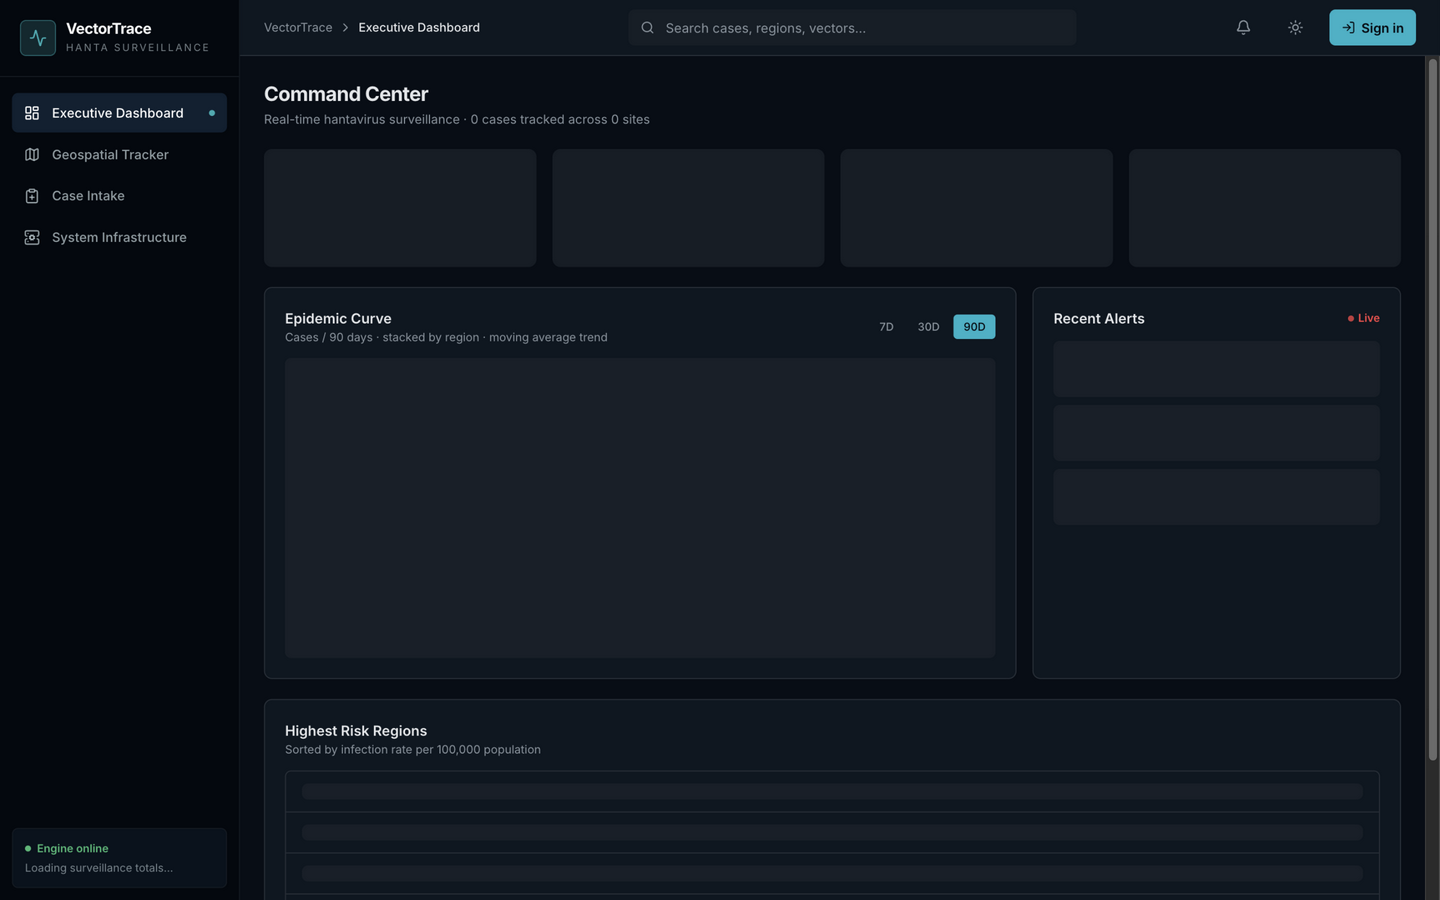
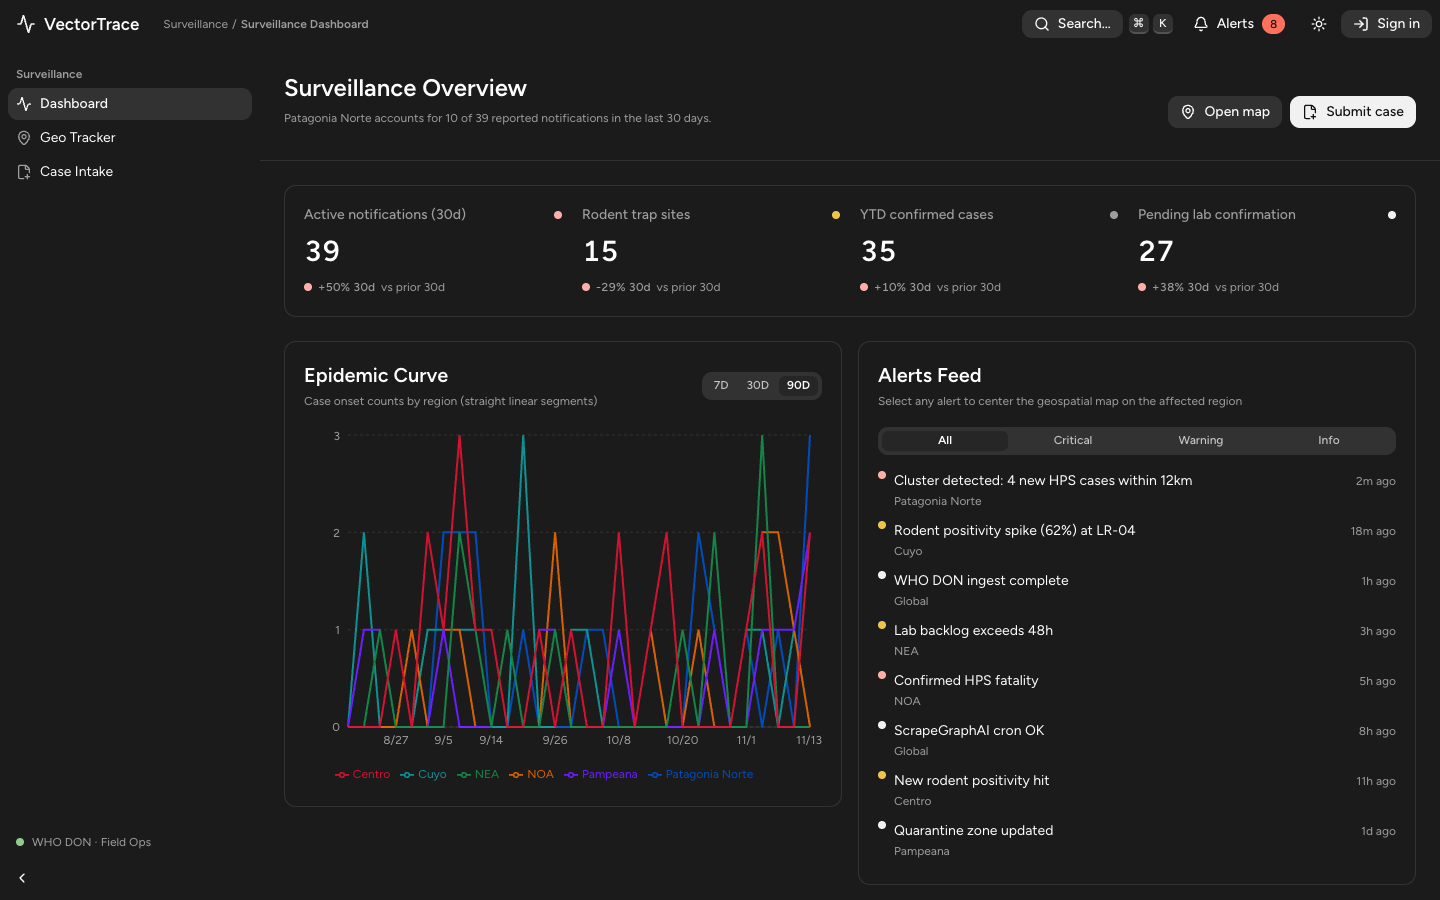
docs(readme): update overview and add light/dark UI screenshots

diff --git a/README.md b/README.md
@@ -7,26 +7,33 @@
 
 [![Live Demo](https://img.shields.io/badge/live-demo-ff5722?logo=cloudflareworkers&logoColor=white)](https://vectortrace-hantavirus-surveillance.sujayanimneth.workers.dev)
 
-**VectorTrace** is a real-time epidemiological surveillance platform for hantavirus. It combines a command-center dashboard, geospatial risk mapping, a role-gated rapid case intake workflow, and an automated WHO Disease Outbreak News ingestion pipeline — backed by Supabase (Postgres + RLS + Edge Functions) and deployed to Cloudflare Workers.
+**VectorTrace** is a real-time epidemiological surveillance platform for hantavirus. It pairs a public overview with an operational surveillance workspace — analytics dashboard, geospatial risk map, 4-step rapid case intake, and an automated WHO Disease Outbreak News ingestion pipeline backed by Supabase (Postgres + RLS + Edge Functions) and Cloudflare Workers.
 
-**A 15-second tour** — landing page → dashboard (light → dark) → geospatial tracker:
+### Screenshots
 
-![VectorTrace demo](docs/screenshots/demo.gif)
+|                      Public overview (dark)                       |                        Dashboard (dark)                        |
+| :---------------------------------------------------------------: | :------------------------------------------------------------: |
+| ![VectorTrace public overview](docs/screenshots/landing-dark.png) | ![Dashboard in dark mode](docs/screenshots/dashboard-dark.png) |
 
-|                        Dashboard (dark)                        |                        Dashboard (light)                         |                  Geospatial tracker                  |
-| :------------------------------------------------------------: | :--------------------------------------------------------------: | :--------------------------------------------------: |
-| ![Dashboard in dark mode](docs/screenshots/dashboard-dark.png) | ![Dashboard in light mode](docs/screenshots/dashboard-light.png) | ![Geospatial tracker](docs/screenshots/map-dark.png) |
+|                        Dashboard (light)                         |                    Geospatial tracker                    |
+| :--------------------------------------------------------------: | :------------------------------------------------------: |
+| ![Dashboard in light mode](docs/screenshots/dashboard-light.png) | ![Geospatial cluster map](docs/screenshots/map-dark.png) |
+
+|                      Operator sign-in                       |
+| :---------------------------------------------------------: |
+| ![Operator authentication](docs/screenshots/login-dark.png) |
 
 ## Highlights
 
-- **Executive dashboard** — live case metrics with trend deltas, stacked epidemic curve (7/30/90-day windows), severity-filtered alerts feed, and a regional risk ranking with sorting, filtering, and CSV export.
-- **Geospatial tracker** — Leaflet map with a keyless Esri dark basemap, case markers, rodent reservoir sites, a case-density heat layer with legend, and shareable focus URLs (`/map?case=…`).
-- **Rapid case intake** — 4-step clinician workflow (demographics → clinical → exposure → review) with zod validation against controlled vocabularies, local drafts, and optimistic cache updates.
-- **Role-based access** — Supabase Auth with `admin` / `epidemiologist` / `viewer` roles enforced by Postgres RLS (the UI gates are convenience; the database is the enforcement layer).
-- **Automated ingestion** — a Supabase Edge Function scrapes WHO Disease Outbreak News via Firecrawl on a pg_cron schedule, normalizes and dedupes items, geocodes country-level reports with Open-Meteo, updates case statuses across runs, and raises alerts on confirmations.
-- **Admin observability console** — ingest success rates, external feed uptime, DB latency percentiles, and pool telemetry, code-split out of the main bundle.
-- **Demo mode** — with no credentials (or `VITE_DEMO_MODE=true`) the app serves a deterministic bundled dataset so the whole UI runs without a backend. Perfect for local dev and portfolio demos.
-- **Dark mode** — system-aware, persisted, no theme flash.
+- **Public corridor snapshot** — `/` greets unauthenticated visitors with live regional corridor metrics (`Corridors` / `Recent cases` toggle) and direct entry points into surveillance workflows.
+- **Surveillance dashboard** — `/dashboard` presents a 30-day KPI strip with prior-period deltas, multi-region linear epidemic curve (`7D` / `30D` / `90D`), severity-filtered alerts feed, and sortable/filterable regional incidence table (`per 100k`) with CSV export.
+- **Geospatial proximity tracker** — `/map` renders a keyless Esri dark/light basemap with confirmed/suspected/pending case markers, _Sigmodontinae_ rodent reservoir sites, density heat overlay, docked region/layer controls, and an interactive slide-over drawer calculating `≤ 5 km` Haversine overlaps.
+- **Global command palette & alerts** — `⌘K` / `Ctrl+K` quick jump across pages, corridors, cases, and trap sites from the top bar alongside a live alerts popover and persisted light/dark mode.
+- **Rapid case intake** — `/intake` provides a 4-step clinician workflow (demographics → clinical onset → exposure context → review) with zod validation against controlled vocabularies, browser draft persistence, and optimistic query updates.
+- **Role-based access** — Supabase Auth with `admin` / `epidemiologist` / `viewer` roles enforced by Postgres RLS (UI route guards are convenience; Postgres RLS is the enforcement layer).
+- **Automated ingestion** — Supabase Edge Functions scrape WHO Disease Outbreak News via Firecrawl on a `pg_cron` schedule, normalize and deduplicate records, geocode country-level reports with Open-Meteo, update case statuses across runs, and raise confirmation alerts.
+- **Admin observability console** — `/admin` tracks ingest health telemetry, external feed response latencies, database query latency against a `220ms` SLO threshold, and severity-filterable system feed logs (code-split out of the main bundle).
+- **Demo mode** — Without backend credentials (or with `VITE_DEMO_MODE=true`), the app serves a deterministic bundled dataset across every view.
 
 ## Architecture
 
@@ -34,9 +41,11 @@
                 ┌──────────────────────────────────────────────┐
                 │                Cloudflare Workers            │
                 │  TanStack Start (React 19, SSR) + Vite       │
-                │  ├── /            Executive dashboard        │
+                │  ├── /            Public overview & snapshot │
+                │  ├── /dashboard   Surveillance KPIs & trends │
                 │  ├── /map         Geospatial tracker (lazy)  │
                 │  ├── /intake      Case intake (clinicians)   │
+                │  ├── /login       Operator authentication    │
                 │  └── /admin       Infra console (admin, lazy)│
                 └───────────────┬──────────────────────────────┘
                                 │ Supabase JS (public view / authed RLS)
@@ -60,13 +69,13 @@
 
 ## Tech stack
 
-| Layer         | Choices                                                                          |
-| ------------- | -------------------------------------------------------------------------------- |
-| UI            | React 19, TanStack Start + Router, Tailwind CSS 4, lucide-react, sonner          |
-| Data          | TanStack Query v5, Supabase JS v2, Realtime channels, zod                        |
-| Visualization | Recharts (epidemic curve, latency), Leaflet + leaflet.heat (map)                 |
-| Backend       | Supabase Postgres with RLS, Edge Functions (Deno), pg_cron                       |
-| Infra         | Cloudflare Workers (wrangler), Docker + Nginx (self-host parity), GitHub Actions |
+| Layer         | Choices                                                                             |
+| ------------- | ----------------------------------------------------------------------------------- |
+| UI            | React 19, TypeScript, TanStack Start + Router, Tailwind CSS 4, lucide-react, sonner |
+| Data          | TanStack Query v5, Supabase JS v2, Realtime channels, zod                           |
+| Visualization | Recharts (epidemic curve, latency SLO), Leaflet + leaflet.heat (map)                |
+| Backend       | Supabase Postgres with RLS, Edge Functions (Deno), pg_cron                          |
+| Infra         | Cloudflare Workers (wrangler), Docker + Nginx (self-host parity), GitHub Actions    |
 
 ## Quick start
 
